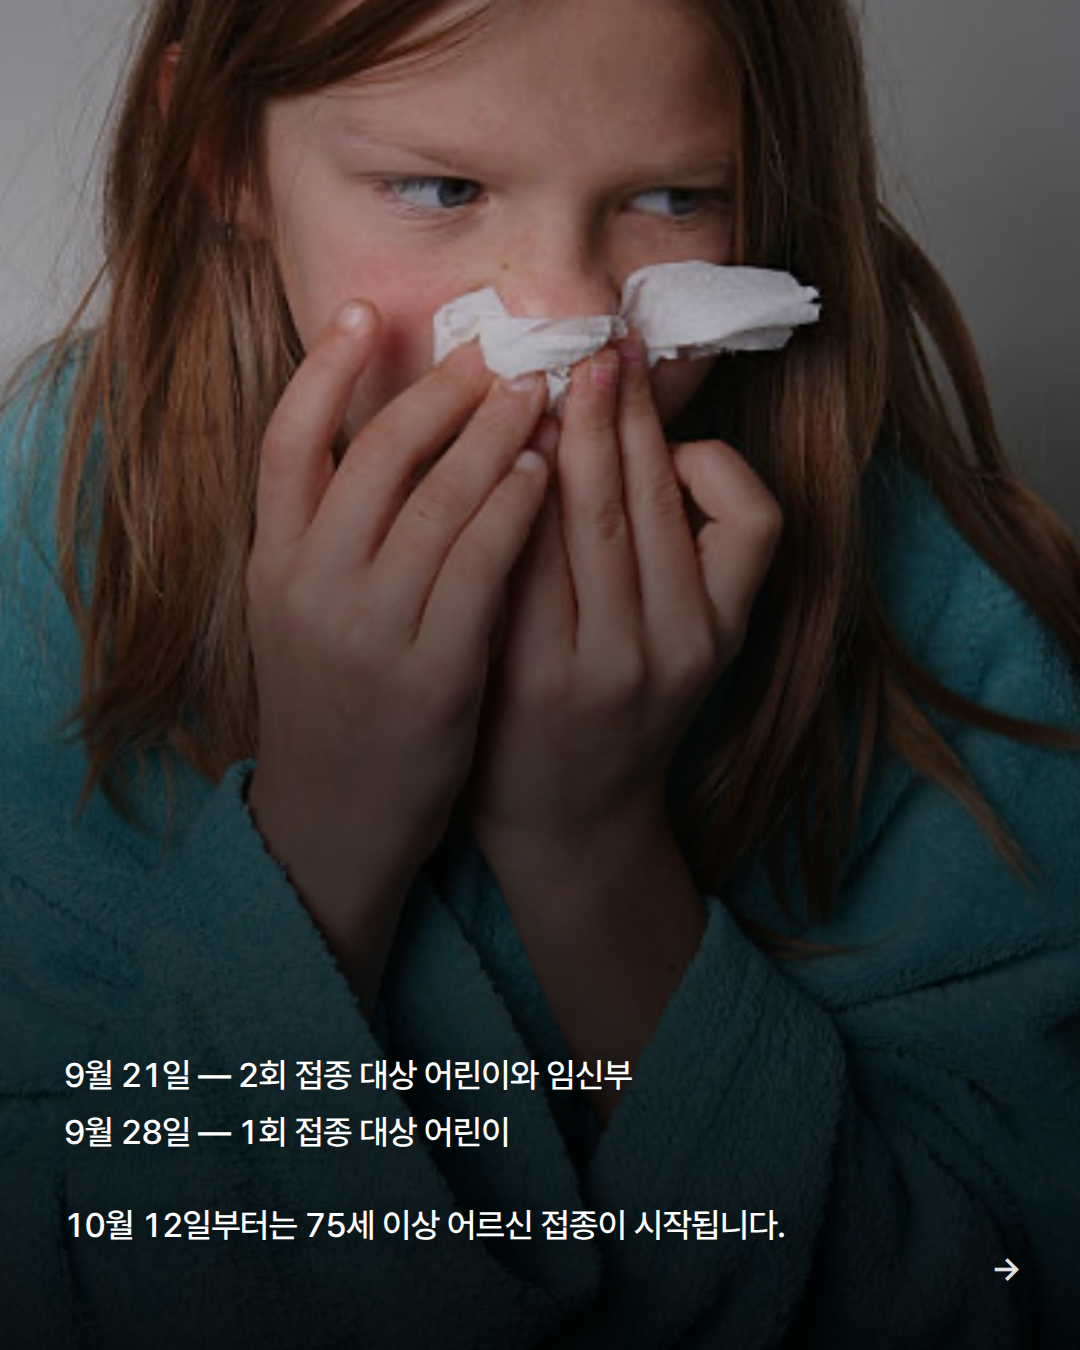
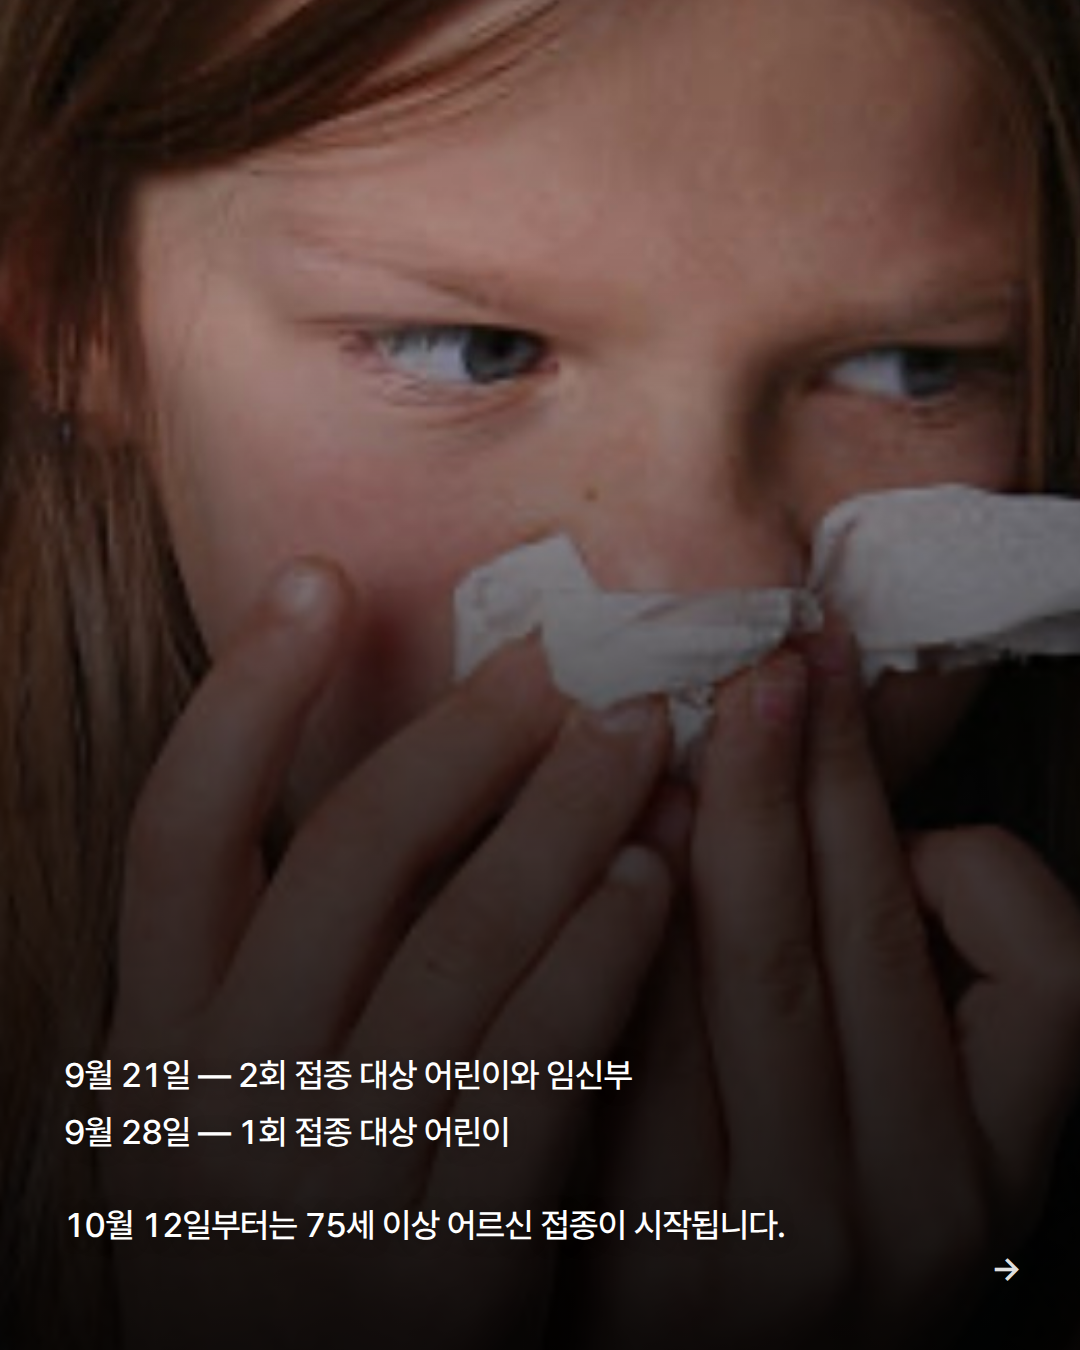
fix: 표지 분류 표기 색상 버그 · 워드마크를 계정 표기로 교체 · 사진 2장 배치
- 버그: .ph .kicker 가 없어진 토큰(PHOTO.meta)을 참조해 color:undefined 로
  떨어지면서 검정으로 렌더됐습니다. 흰색으로 고치고 그림자 추가
- 로고 워드마크 대신 계정 표기(@bumoro.kr)를 좌상단·엔딩에 사용
- 사진 2장을 번갈아 배치하고 확대 크롭으로 장면 구분
- 엔딩 스크림을 .46 → .64 로 눌러 마무리 카드 가독성 확보 (7.7 → 13.75:1)

diff --git a/public/instagram/preview.html b/public/instagram/preview.html
@@ -81,16 +81,11 @@
     color:rgba(255,255,255,.8); font-size:26px; font-weight:600; line-height:1.5;
     padding:22px 26px; }
   .ph .scrim { position:absolute; inset:0; }
-  .ph .mark { position:absolute; left:64px; top:56px; }
-  .wm2 { position:relative; display:inline-block; font-size:48px; font-weight:900;
-    letter-spacing:.055em; color:#fff; line-height:1; padding:0 2px; }
-  /* 밑줄 바는 글자 크기에 비례 — 아래쪽에 얇게 깔려 획이 위로 지나가게 */
-  .wm2 .bar { position:absolute; left:-3px; right:-3px; bottom:.07em; height:.13em;
-    background:#8FCDE2; }
-  .wm2 .t { position:relative; }
+  .ph .mark { position:absolute; left:64px; top:56px; font-size:30px; font-weight:600;
+    color:#fff; letter-spacing:.01em; text-shadow:0 2px 14px rgba(0,0,0,.55); }
   .ph .txt { position:absolute; left:64px; right:64px; bottom:74px; }
-  .ph .kicker { font-size:27px; font-weight:600; color:undefined; letter-spacing:.02em;
-    margin-bottom:20px; }
+  .ph .kicker { font-size:27px; font-weight:700; color:rgba(255,255,255,.92);
+    letter-spacing:.02em; margin-bottom:20px; text-shadow:0 2px 14px rgba(0,0,0,.5); }
   .ph .kicker i { font-style:normal; opacity:.6; margin:0 12px; }
   .ph h2 { font-size:80px; font-weight:800; line-height:1.28; letter-spacing:-.045em;
     color:#fff; text-shadow:0 2px 24px rgba(0,0,0,.28); }
@@ -108,7 +103,7 @@
   /* 엔딩 — 워드마크만 */
   .ph .center { position:absolute; inset:0; display:flex; flex-direction:column;
     align-items:center; justify-content:center; }
-  .ph .center .wm2 { font-size:78px; }
+  .ph .center .h { font-size:46px; font-weight:700; color:#fff; letter-spacing:.01em; }
   .ph .center .t { margin-top:26px; font-size:29px; font-weight:600;
     color:rgba(255,255,255,.92); letter-spacing:-.02em; }
 
@@ -118,8 +113,8 @@
            letter-spacing:-.02em; color:var(--body); }
   .enote { margin-top:auto; margin-bottom:40px; font-size:29px; font-weight:700; color:var(--fg); }
 </style></head><body><section class="s ph">
-  <div class="img" style="background-image:url('assets/photos/flu-01.jpg');background-position:center 22%;background-size:cover"></div><div class="scrim" style="background:linear-gradient(to bottom, rgba(0,0,0,.30) 0%, rgba(0,0,0,0) 28%, rgba(0,0,0,.52) 64%, rgba(0,0,0,.86) 100%)"></div>
-  <div class="mark"><span class="wm2"><span class="bar"></span><span class="t">부모로</span></span></div>
+  <div class="img" style="background-image:url('assets/photos/flu-02.jpg');background-position:center 42%;background-size:cover"></div><div class="scrim" style="background:linear-gradient(to bottom, rgba(0,0,0,.30) 0%, rgba(0,0,0,0) 28%, rgba(0,0,0,.52) 64%, rgba(0,0,0,.86) 100%)"></div>
+  <div class="mark">@bumoro.kr</div>
     <div class="txt"><div class="kicker">육아<i>|</i>NEWS</div>
       <h2>독감 무료접종<br>14세까지 넓어집니다</h2></div>
   
@@ -133,7 +128,7 @@
     
   
 </section><section class="s ph">
-  <div class="img" style="background-image:url('assets/photos/flu-01.jpg');background-position:38% 30%;background-size:190% auto"></div><div class="scrim" style="background:linear-gradient(to bottom, rgba(0,0,0,.22) 0%, rgba(0,0,0,.08) 24%, rgba(0,0,0,.62) 56%, rgba(0,0,0,.90) 100%)"></div>
+  <div class="img" style="background-image:url('assets/photos/flu-02.jpg');background-position:62% 58%;background-size:155% auto"></div><div class="scrim" style="background:linear-gradient(to bottom, rgba(0,0,0,.22) 0%, rgba(0,0,0,.08) 24%, rgba(0,0,0,.62) 56%, rgba(0,0,0,.90) 100%)"></div>
   
   <div class="read">
       <p>지원 대상이 생후 6개월부터 만 14세까지로 넓어졌습니다.<br>지난 절기까지는 13세까지였습니다.</p><p>2012년 1월 1일 ~ 2026년 8월 31일 출생 아동이 해당됩니다.</p></div>
@@ -141,7 +136,7 @@
     
   
 </section><section class="s ph">
-  <div class="img" style="background-image:url('assets/photos/flu-01.jpg');background-position:center 96%;background-size:cover"></div><div class="scrim" style="background:linear-gradient(to bottom, rgba(0,0,0,.22) 0%, rgba(0,0,0,.08) 24%, rgba(0,0,0,.62) 56%, rgba(0,0,0,.90) 100%)"></div>
+  <div class="img" style="background-image:url('assets/photos/flu-01.jpg');background-position:38% 30%;background-size:190% auto"></div><div class="scrim" style="background:linear-gradient(to bottom, rgba(0,0,0,.22) 0%, rgba(0,0,0,.08) 24%, rgba(0,0,0,.62) 56%, rgba(0,0,0,.90) 100%)"></div>
   
   <div class="read">
       <p>9월 21일 — 2회 접종 대상 어린이와 임신부<br>9월 28일 — 1회 접종 대상 어린이</p><p>10월 12일부터는 75세 이상 어르신 접종이 시작됩니다.</p></div>
@@ -149,7 +144,7 @@
     
   
 </section><section class="s ph">
-  <div class="img" style="background-image:url('assets/photos/flu-01.jpg');background-position:62% 62%;background-size:165% auto"></div><div class="scrim" style="background:linear-gradient(to bottom, rgba(0,0,0,.22) 0%, rgba(0,0,0,.08) 24%, rgba(0,0,0,.62) 56%, rgba(0,0,0,.90) 100%)"></div>
+  <div class="img" style="background-image:url('assets/photos/flu-02.jpg');background-position:28% 30%;background-size:150% auto"></div><div class="scrim" style="background:linear-gradient(to bottom, rgba(0,0,0,.22) 0%, rgba(0,0,0,.08) 24%, rgba(0,0,0,.62) 56%, rgba(0,0,0,.90) 100%)"></div>
   
   <div class="read">
       <p>2회인지 1회인지는 지난 접종 이력에 따라 갈립니다.<br>헷갈리면 접종 기관이나 보건소에 미리 확인하는 편이 빠릅니다.</p><p>무료 대상인데 모르고 비용을 내는 경우가 적지 않습니다.</p></div>
@@ -157,9 +152,9 @@
     <div class="src">자료 출처를 여기에</div>
   
 </section><section class="s ph">
-  <div class="img" style="background-image:url('assets/photos/flu-01.jpg');background-position:center 15%;background-size:cover"></div><div class="scrim" style="background:linear-gradient(rgba(0,0,0,.46), rgba(0,0,0,.46))"></div>
+  <div class="img" style="background-image:url('assets/photos/flu-01.jpg');background-position:center 96%;background-size:cover"></div><div class="scrim" style="background:linear-gradient(rgba(0,0,0,.64), rgba(0,0,0,.64))"></div>
   
   
   <div class="center">
-      <span class="wm2"><span class="bar"></span><span class="t">부모로</span></span><div class="t">꼭 필요한 것만 골라드려요</div></div>
+      <div class="h">@bumoro.kr</div><div class="t">꼭 필요한 것만 골라드려요</div></div>
 </section></body></html>
